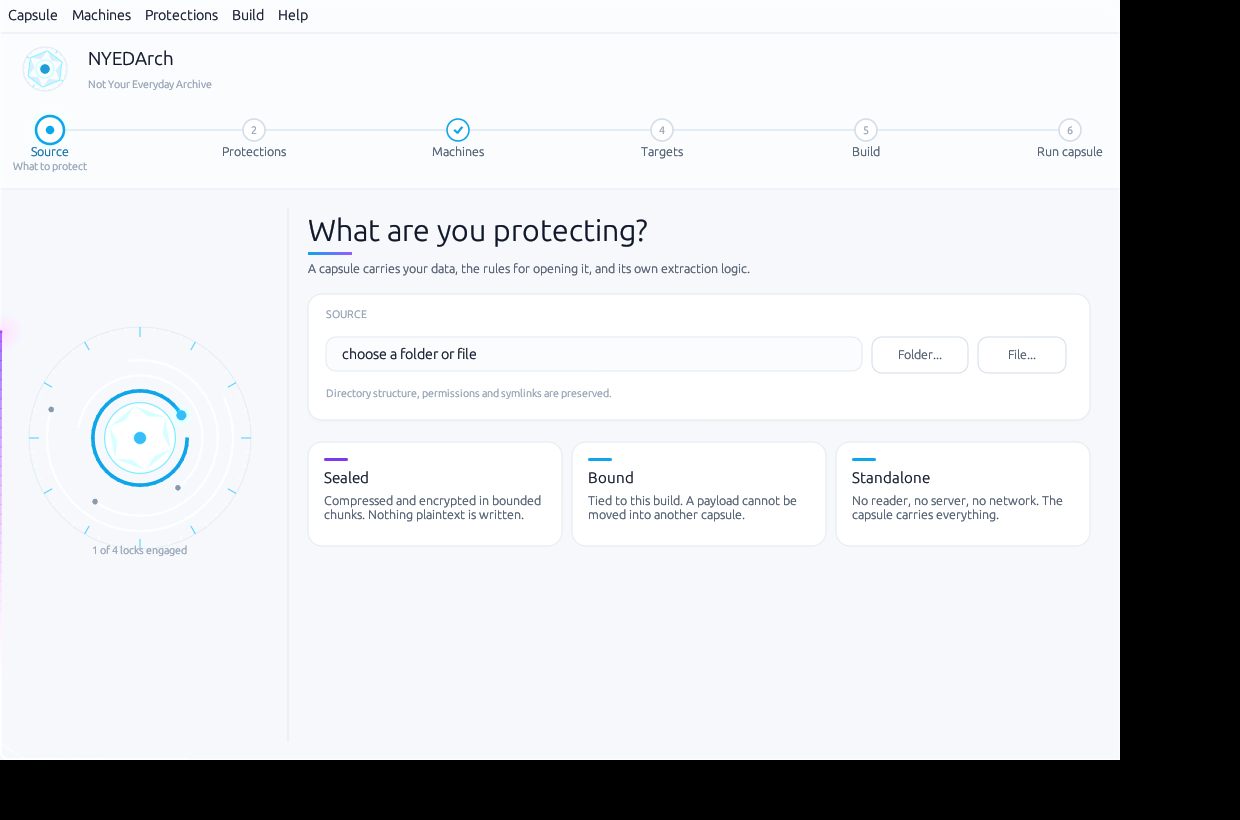
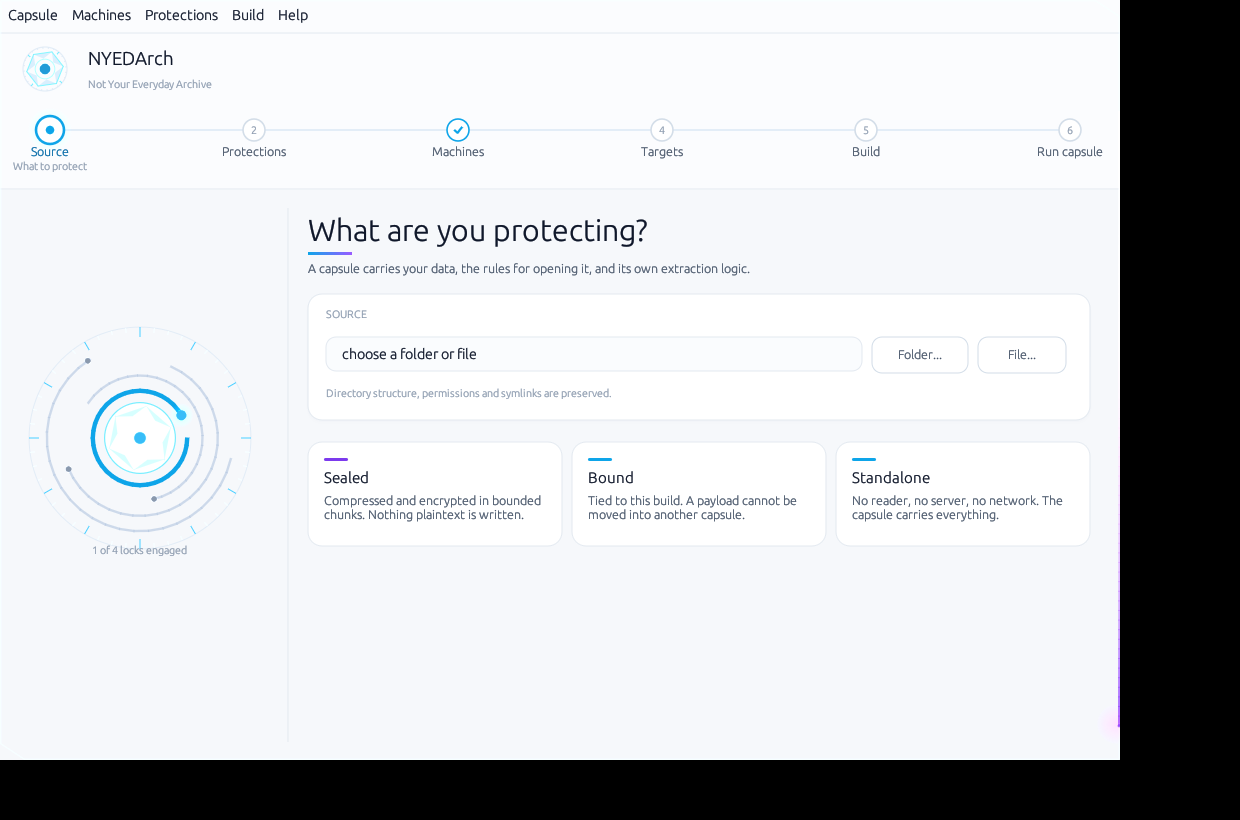
docs(ui): record what the screenshots prove, and what they do not
The unengaged rings now read as locks waiting to close rather than as faint
smudges - visible in the regenerated screenshot, and the reason the alpha was
raised.

Also records the limit of this verification honestly. Headless screenshots catch
layout, colour and contrast, and they caught several things review missed:
rings too faint to invite a click, text clipped out of a card, a caption
repeated under the capsule. They do not exercise pointer behaviour reliably - a
synthetic pointer does not always produce the motion events the toolkit reacts
to - so the ring hover label and ring click are covered by their logic and a
compile, not by a picture.

Writing that down matters more than it looks: a screenshot proves what it shows
and nothing more, and this project has already shipped several claims that were
true of one platform, one configuration or one code path.

Changed region(s): [[0.0613, 0.4573, 0.1839, 0.6402], [0.0, 0.061, 0.0613, 0.122], [0.0306, 0.5488, 0.0613, 0.5793]]

diff --git a/docs/UI_DESIGN.md b/docs/UI_DESIGN.md
@@ -148,6 +148,19 @@ It is 30 px, shares the rail's surface colour, and has **no rule beneath it**. A
 hairline there cut the window in two and left a visible seam; without it the top
 of the window reads as one continuous plane with the content floating on it.
 
+## What is verified, and what is not
+
+Screenshots in `docs/ui` come from the running client under a headless X server.
+That catches layout, colour and contrast, and it caught several things review
+did not: rings too faint to invite a click, text clipped out of a card, a label
+repeated under the capsule.
+
+It does **not** exercise pointer behaviour reliably. A synthetic pointer does not
+always produce the motion events the toolkit reacts to, so the ring hover label
+and the ring click are covered by their logic and by a compile, not by a picture.
+They are listed here rather than left implied: a screenshot proves what it shows,
+and nothing more.
+
 ## Accessibility notes
 
 - Meaning is never carried by colour alone: engaged protections also show a
